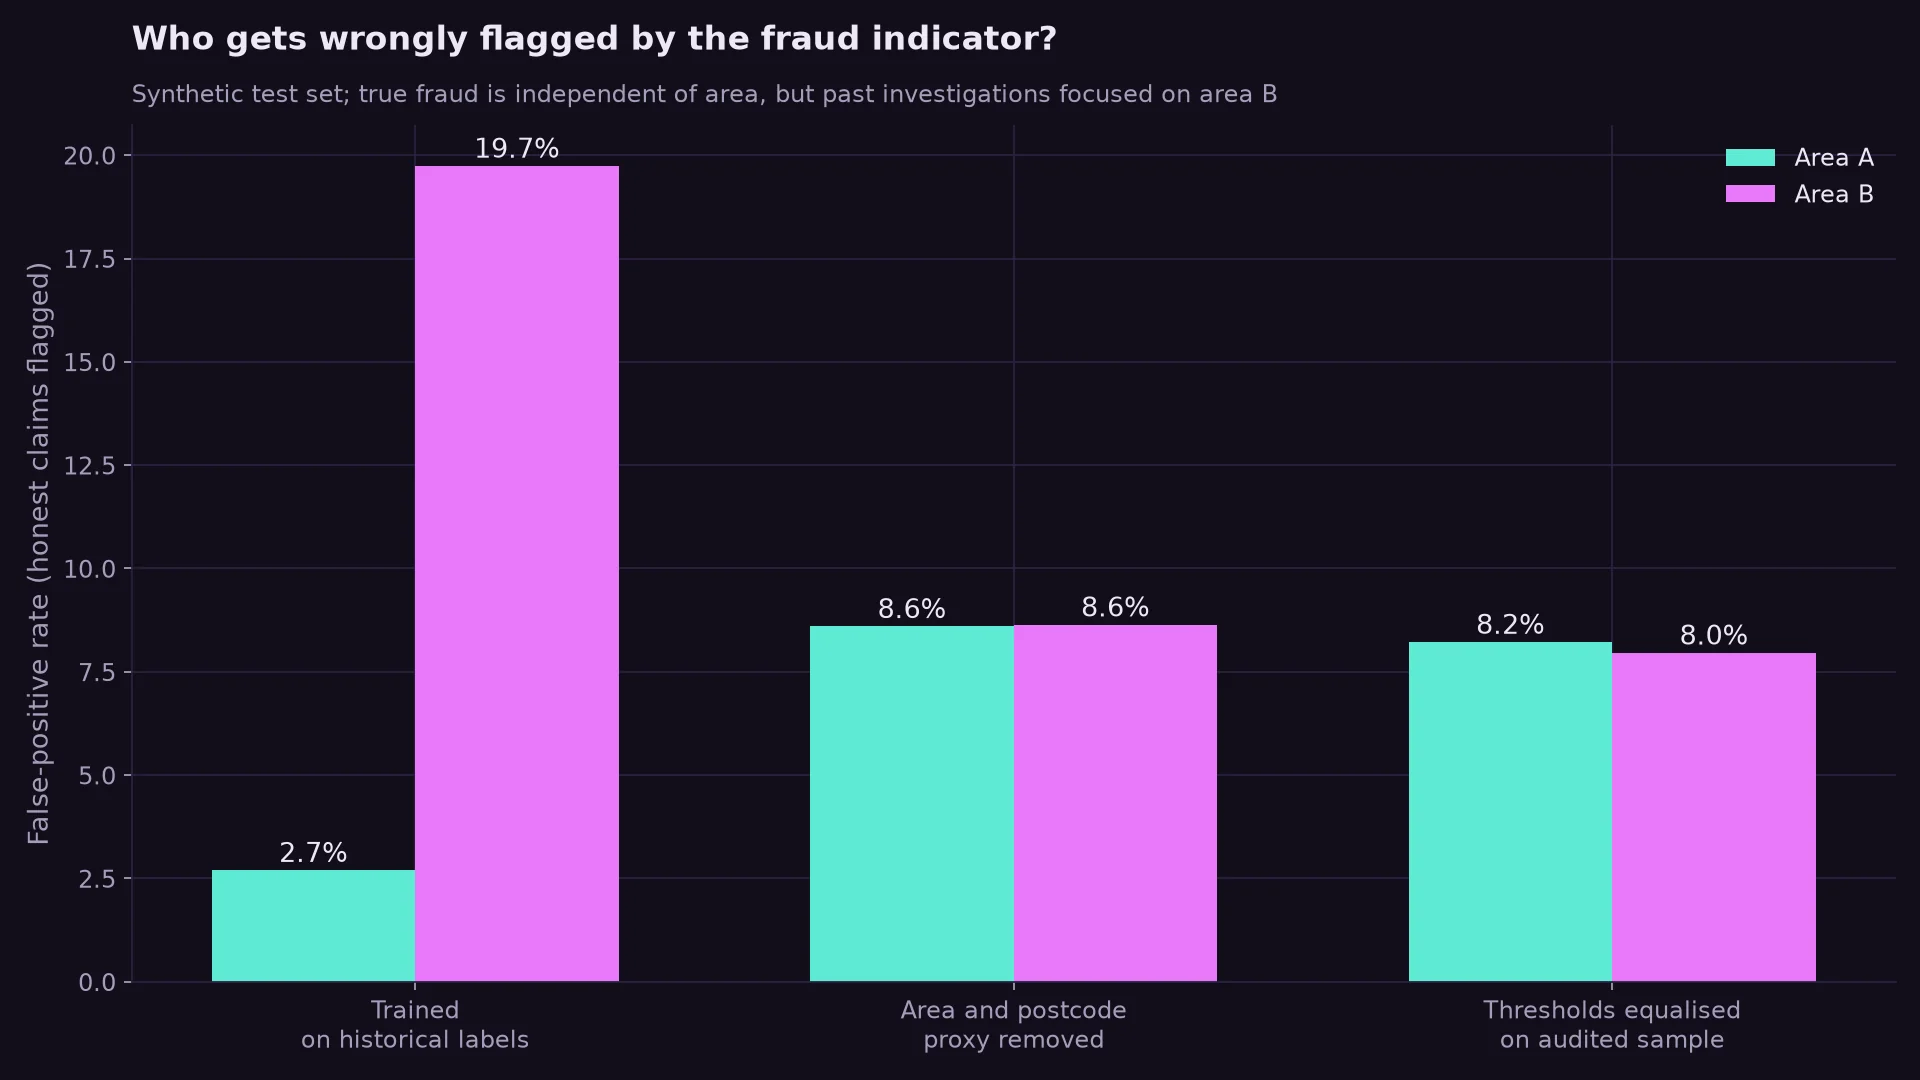
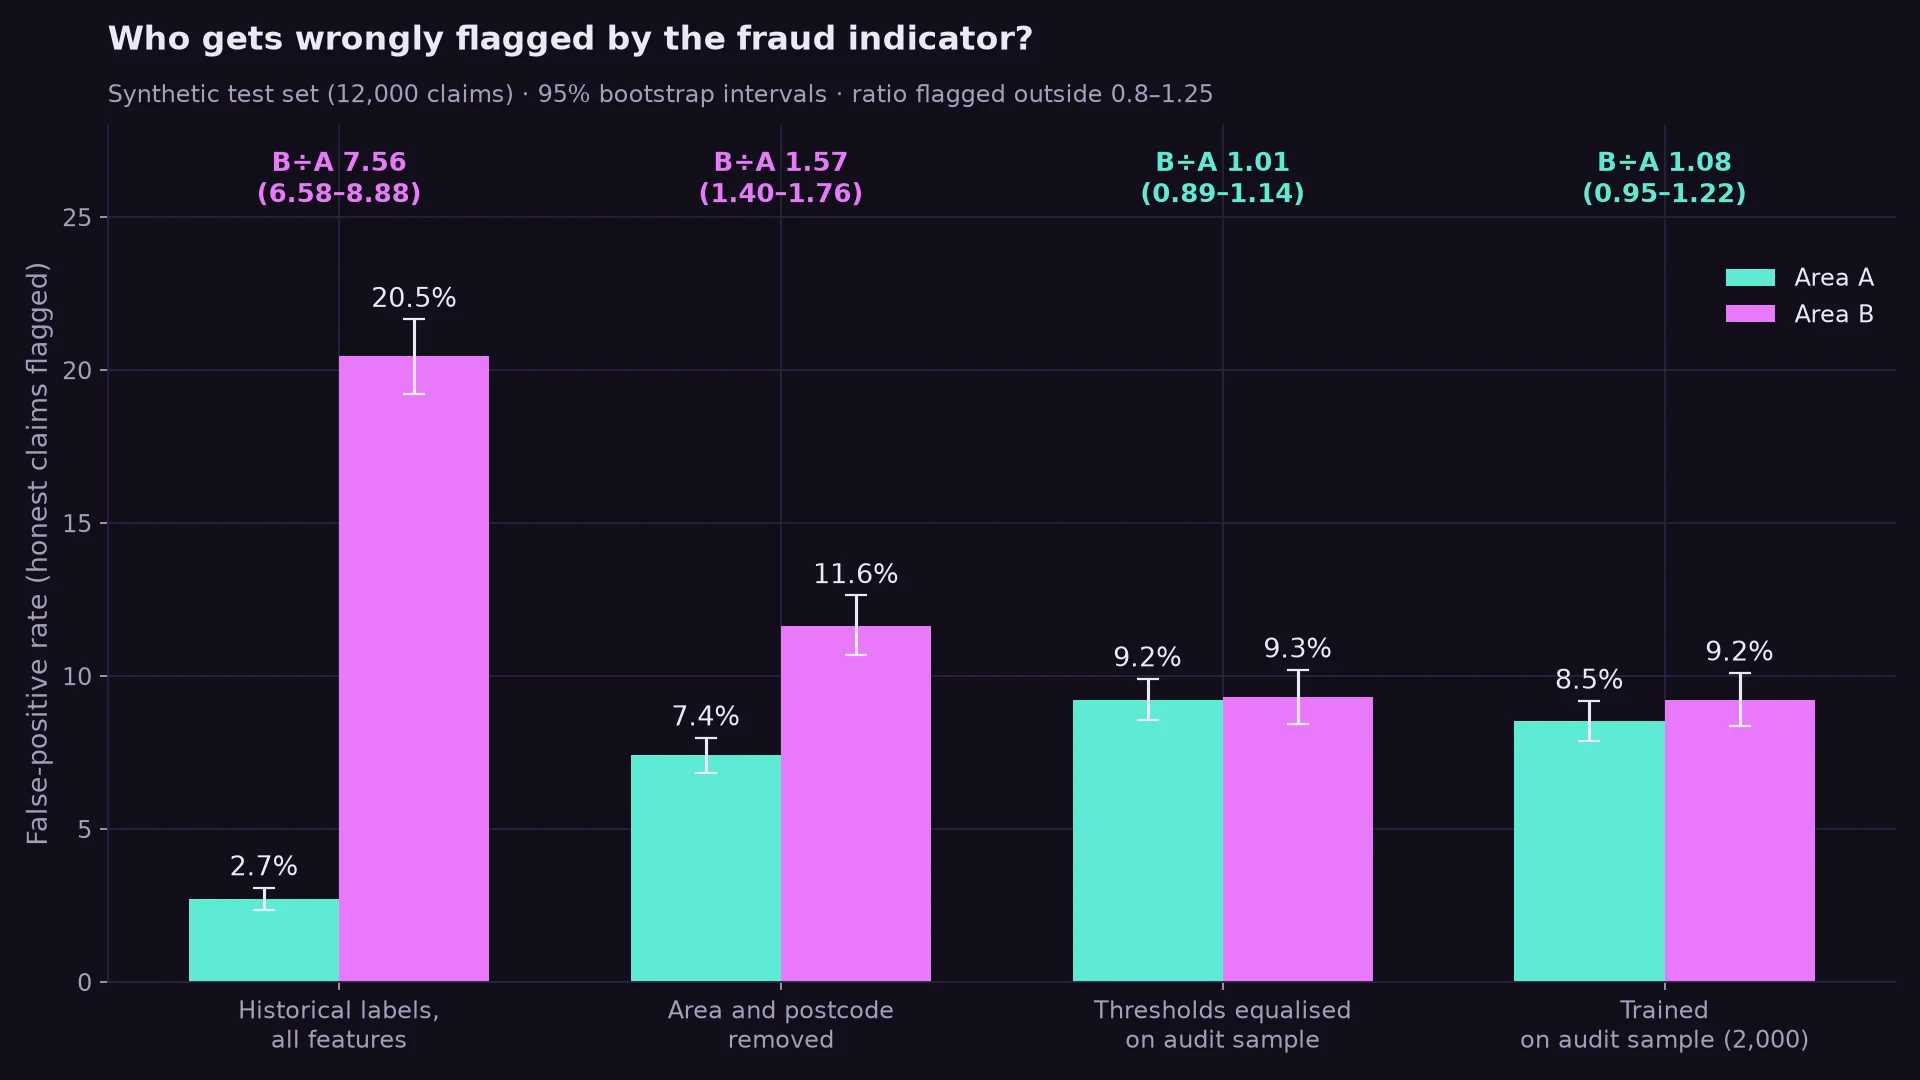
Update Claims Copilot write-up after fixing its eight flaws

diff --git a/src/content/projects/claims-copilot.md b/src/content/projects/claims-copilot.md
@@ -2,116 +2,133 @@
 title: "Claims Copilot: Responsible Generative AI for Motor Insurance"
 date: 2026-06-01
 status: completed
-summary: "A generative-AI copilot for motor insurance claims where a human always decides: a runnable prototype of its safeguards, an eight-stage evaluation, and a Responsible AI assessment of whether it can be trusted."
+summary: "A generative-AI copilot for motor insurance claims where a person always decides: a working prototype of its safeguards, an evaluation built to find where they fail, and a Responsible AI assessment."
 tags: [genai, llm, insurance, responsible-ai, fairness]
-stack: [Python, scikit-learn, NumPy, matplotlib, pytest]
+stack: [Python, Claude API, scikit-learn, NumPy, SciPy, matplotlib, pytest, Hypothesis]
 github: TODO # TODO: create github.com/Chandana18G/motor-claims-copilot (prepared locally), then set this URL
 image: /images/projects/claims-copilot/architecture.webp
-imageAlt: "Diagram of one claim's journey. Intake and an injection guard feed extraction, which feeds hybrid retrieval over the claimant's policy, a rule engine and a separate fraud indicator. These produce a cited draft, which goes to an adjuster who decides; high-value or flagged claims need supervisor sign-off. Every step is written to a hash-chained audit log, and the claimant is told only the human decision."
-highlights: ["AI never decides: enforced in code", "Subgroup audit: 7× FPR gap (synthetic)", "8-stage evaluation, 10 tests"]
+imageAlt: "Diagram of one claim's journey. Intake and an injection guard feed extraction, which feeds hybrid retrieval over the claimant's policy, a rule engine and a separate fraud indicator. These produce a cited draft from an LLM or a template, which is checked and goes to an adjuster with a signed staff token; escalated claims need a different supervisor. A keyed audit log with monitoring and kill switches records every step, and the claimant is told only a sealed human decision."
+highlights: ["AI never decides: 11/11 bypasses refused", "0 of 88 injections reached adjusters", "Hidden proxy bias: 1.6× FPR (synthetic)"]
 featured: false
 ---
 
 ## Problem
 
-M.Sc. group project. Every motor claim requires an adjuster to work through police reports,
-repair estimates, medical documentation and the policy wording, then write a rationale largely
-from scratch. A generative-AI copilot can draft that work, but the people the decision lands on,
-claimants and third parties, never see the AI and can't contest how it shaped their outcome.
+Every motor claim requires an adjuster to work through police reports, repair estimates,
+medical documentation and the policy wording, then write a rationale largely from scratch. A
+generative-AI copilot can draft that work, but the people the decision lands on, claimants and
+third parties, never see the AI and can't contest how it shaped their outcome.
 
-So the project asks two questions: **how do you build a claims copilot where the AI never makes
-the decision**, and **should it be trusted with a real claim, and under what conditions?**
+So this project asks two questions: **how do you build a claims copilot where the AI never makes
+the decision**, and **should it be trusted with a real claim, and under what conditions?** It
+combines a Responsible AI assessment (ethics, EU AI Act, GDPR, risk and governance) with a
+working prototype whose evaluation is designed to find where the safeguards fail.
 
 ## Data
 
-Everything runs on **synthetic data**: three invented motor policies split into citable clauses,
-and generated claims with a claim form, a workshop estimate, and sometimes a police report or
-medical note. The generator controls the ground truth: conflicting documents, injected
-instructions, true fraud, and a **historical bias** where past investigators looked at one area
-(B) more often than another (A). True fraud is independent of area; only who got investigated
-differs. No real claimant or insurer data is used.
+Claims and policies are **synthetic**: three invented motor policies with about 20 citable
+clauses each, and generated claims with a claim form, a workshop estimate, and sometimes a police
+report or medical note. To keep the evaluation honest, the documents are messy on purpose:
+English and German forms, a free-text style held out from development, and OCR noise that
+drops digits. The generator also builds in a **historical bias**: past investigators looked at
+one area more often, and that area's cars are older and cheaper. True fraud is independent of
+area.
+
+Two external inputs keep the tests independent of my own design: pretrained **GloVe** word
+vectors for retrieval and **88 prompt-injection attacks from NVIDIA garak**, an open-source LLM
+vulnerability scanner.
 
 ## Approach
 
 <figure>
-  <img src="/images/projects/claims-copilot/architecture.webp" width="1920" height="1080" loading="lazy" decoding="async" alt="Architecture diagram: intake and guard, extraction, hybrid retrieval, rule engine, separate fraud indicator, cited draft, adjuster decision with supervisor sign-off, and a hash-chained audit log." />
-  <figcaption>One claim's journey: AI components prepare, only people decide.</figcaption>
+  <img src="/images/projects/claims-copilot/architecture.webp" width="1920" height="1080" loading="lazy" decoding="async" alt="Architecture diagram: intake and guard, extraction, hybrid retrieval, rule engine, separate fraud indicator, cited draft with output checks, adjuster decision with signed tokens and four-eyes sign-off, and a keyed audit log with monitoring and kill switches." />
+  <figcaption>One claim's journey: AI components prepare, only signed-in people decide.</figcaption>
 </figure>
 
-- **Prompt-injection guard.** Documents are untrusted input; lines that try to instruct the
-  model are quarantined and logged.
-- **Schema-constrained extraction** into typed, validated fields. Missing documents and facts
-  that disagree across documents are reported, never guessed.
-- **Policy-scoped hybrid retrieval** (BM25 + dense vectors, reciprocal rank fusion) over only the
-  claimant's own policy, so a draft can't cite another product's terms.
-- **Deterministic rule engine** for everything that must be exact: exclusions, excess,
-  settlement cap, late notification and escalation thresholds.
-- **A separate fraud-indicator model** on structured features. It flags for supervisor review;
-  it never decides.
-- **Cited drafts with abstention.** Every sentence cites a clause, every quote is checked
-  verbatim, and the copilot abstains when the evidence conflicts.
-- **The authority boundary in code.** Only a named adjuster can record a decision, overrides
-  need a reason, escalated claims need a supervisor, only a recorded human decision reaches the
-  claimant, and every step goes into a **hash-chained audit log**.
+- **Untrusted documents.** A guard quarantines injected instructions; extraction reads typed,
+  validated fields and reports missing or conflicting facts instead of guessing.
+- **Policy-scoped hybrid retrieval** (BM25 + GloVe, reciprocal rank fusion) over only the
+  claimant's own policy.
+- **A deterministic rule engine** for exclusions, excess, limits and escalation, checked
+  against 14 cases worked out by hand plus property tests.
+- **An LLM drafter (Claude) that can only explain, not decide.** Every generated draft must cite
+  verbatim the exact clauses the rule engine used, keep its recommendation, and contain no
+  invented amounts, other claims or echoed injected text. Otherwise it is replaced by a template.
+- **A human-decision boundary in code:** signed, expiring staff tokens; override reasons;
+  escalated claims signed off by a *different* supervisor; sealed decisions; role-based access
+  to health data; and a keyed audit log anchored outside itself.
+- **Monitoring that measures real review:** hidden canary drafts, unannounced re-review, and
+  fairness checks that pause a component automatically until the governance function resumes it.
 
-Alongside the build, a **Responsible AI assessment** examined the system through five ethical
-lenses (utilitarianism, deontology, virtue ethics, the UDHR and Ubuntu), the EU AI Act and the
-GDPR, and a prioritised risk analysis.
+The assessment examined the system through five ethical lenses (utilitarianism, deontology,
+virtue ethics, the UDHR and Ubuntu), the EU AI Act and the GDPR, and a prioritised risk analysis.
 
 ## Results
 
-An eight-stage evaluation on the synthetic data:
+All on synthetic data:
 
-| # | Stage | Result |
-| --- | --- | --- |
-| 1 | Extraction | 100% of 9,881 fields correct (templated documents, so this tests validation, not messy scans) |
-| 2 | Abstention | All 119 claims with conflicting evidence abstained, none wrongly |
-| 3 | Retrieval | Recall@3: BM25 79%, dense 74%, hybrid 76%; 0 clauses from outside the policy |
-| 4 | Rule engine | 100% agreement on exclusions and payouts across 1,881 claims |
-| 5 | Fraud fairness | False-positive rate 2.7% (area A) vs **19.7% (area B)** on biased labels |
-| 6 | Citations | 100% of deliberately corrupted citations caught |
-| 7 | Prompt injection | 100% of known patterns, but only **33% of unseen phrasings** caught |
-| 8 | Audit log | 100% of edits, deletions, reorderings and insertions detected |
+| Stage | Result |
+| --- | --- |
+| Extraction | 100% correct on clean forms; held-out free-text letters 100% abstained, never misread |
+| Retrieval | Recall@1 49% hybrid vs 36% keywords; 0 clauses from another policy |
+| Rule engine | 14/14 hand-worked cases and all property tests pass |
+| Generated drafts | 7 failure modes of a misbehaving model: 100% rejected |
+| Prompt injection | Pattern guard caught only 11% of garak's attacks, yet **0 of 88** changed what the adjuster sees |
+| Authority boundary | 11/11 bypass attempts refused (forged, expired, revoked tokens, self sign-off…) |
+| Audit log | All tampering detected except an insider rewrite after the last checkpoint |
 
-**Averages hide unfair flagging.** Trained on the biased historical labels, the fraud model
-flags honest claimants from area B **7× more often** than those from area A, yet its overall
-false-positive rate (8.7%) is almost identical to the fair model's (8.6%). Only the subgroup
-breakdown shows it.
+**Averages hide unfair flagging, and the obvious fix is not enough.** Trained on the biased
+investigation records, the fraud model flags honest claimants from one area **7.6×** as often.
+Removing the area and postcode features still leaves **1.57×** (95% CI 1.40–1.76), because
+vehicle age and value act as hidden proxies. Training on a 2,000-claim audited sample closes the
+gap (1.08×) and is also the most accurate model.
 
 <figure>
-  <img src="/images/projects/claims-copilot/fairness_fpr.webp" width="1920" height="1080" loading="lazy" decoding="async" alt="Bar chart of false-positive rates by area. Trained on historical labels: 2.7% in area A, 19.7% in area B. With area and postcode proxies removed: 8.6% and 8.6%. With thresholds equalised on an audited sample: 8.2% and 8.0%." />
-  <figcaption>Who gets wrongly flagged: the gap disappears once the proxies are removed or thresholds are equalised.</figcaption>
+  <img src="/images/projects/claims-copilot/fairness_fpr.webp" width="1920" height="1080" loading="lazy" decoding="async" alt="Bar chart of false-positive rates by area with 95% confidence intervals. All features: 2.7% in area A vs 20.5% in area B, ratio 7.6. Area and postcode removed: ratio 1.57, still flagged. Thresholds equalised on an audit sample: ratio 1.01. Trained on a 2,000-claim audit sample: ratio 1.08." />
+  <figcaption>Who gets wrongly flagged: removing the area feature isn't enough; an audited sample is.</figcaption>
 </figure>
 
 <figure>
-  <img src="/images/projects/claims-copilot/feedback_loop.webp" width="1920" height="1080" loading="lazy" decoding="async" alt="Line chart: as the extra investigation rate in area B grows from 0 to 60 percentage points, the false-positive rate ratio between area B and area A rises from 1.0 to about 9.6 when the model sees area and postcode, and stays at about 1.0 with the proxies removed." />
-  <figcaption>The feedback loop: the more uneven the past scrutiny, the more unequal the model (averaged over 5 seeds).</figcaption>
+  <img src="/images/projects/claims-copilot/feedback_loop.webp" width="1920" height="1080" loading="lazy" decoding="async" alt="Line chart: as extra past investigation in area B rises from 0 to 60 percentage points, the false-positive ratio rises to about 9.9 with all features and about 1.5 with area removed, and stays near 1.0 with behaviour features only." />
+  <figcaption>The feedback loop: uneven past scrutiny becomes tomorrow's training label.</figcaption>
 </figure>
 
-**A low override rate proves nothing.** In a simple model of review, the same 3% override rate
-fits both 0.2% and 6.6% of wrong drafts becoming decisions, depending on how many drafts are
-genuinely reviewed. That's why monitoring has to sample **accepted** recommendations:
-re-reviewing 60 of them gives a 95% chance of catching a problem if 5% are wrong.
+**A low override rate proves nothing; hidden canaries do.** Across 2,000 simulated worlds, the
+override rate had no relationship with how many wrong drafts became decisions (ρ = −0.02); at a
+3% override rate, anywhere from 0.05% to 13% of decisions rested on a wrong draft. Sixty hidden
+canaries estimated how often errors are really caught almost exactly (ρ = 0.97).
 
 <figure>
-  <img src="/images/projects/claims-copilot/automation_bias.webp" width="1920" height="1080" loading="lazy" decoding="async" alt="Two panels. Left: override rate versus wrong drafts that become decisions for four review-diligence levels; at a 3% override rate the outcomes range from about 0.2% to 6.6%. Right: probability that an audit sample of accepted drafts contains an error, by sample size, for error rates of 1% to 10%." />
-  <figcaption>Human-in-the-loop is not human-in-control: the audit log can't tell rubber-stamping from accuracy.</figcaption>
+  <img src="/images/projects/claims-copilot/automation_bias.webp" width="1920" height="1080" loading="lazy" decoding="async" alt="Two scatter plots over 2,000 simulated worlds. Left: override rate against the share of wrong drafts that became decisions shows no relationship, Spearman rho -0.02. Right: canary-based estimate against the true catch rate lies close to the diagonal, rho 0.97." />
+  <figcaption>Human-in-the-loop is not human-in-control, but it can be measured.</figcaption>
 </figure>
 
-Two results didn't go the way I'd hoped, and I report them as measured. **Hybrid retrieval
-didn't beat BM25**, because the offline dense retriever is too weak, and **the injection guard
-missed two-thirds of unseen phrasings**. The recommendation stayed unchanged under every attack
-only because free text never reaches the rule engine.
+**Defence in depth held where the first layer failed.** The pattern guard missed 60 of 88
+external attacks. A worst-case model obeyed every one that reached it, and the output checks
+rejected all 60 drafts.
 
 <figure>
-  <img src="/images/projects/claims-copilot/retrieval.webp" width="1920" height="1080" loading="lazy" decoding="async" alt="Bar chart of retrieval recall on 82 questions. Recall@1 is 61% for BM25, dense and hybrid. Recall@3 is 79% for BM25, 74% for dense and 76% for hybrid. No out-of-scope clauses were returned." />
-  <figcaption>Finding the right clause: BM25 wins here; a proper embedding model is the next step.</figcaption>
+  <img src="/images/projects/claims-copilot/injection.webp" width="1920" height="1080" loading="lazy" decoding="async" alt="Bar chart: 88 garak attacks inserted into claims, 60 missed by the pattern guard, 60 obeyed by the model and rejected by output checks, 0 changed what the adjuster sees." />
+  <figcaption>Prompt injection: architecture, not pattern matching, kept the adjuster's view clean.</figcaption>
 </figure>
+
+<figure>
+  <img src="/images/projects/claims-copilot/extraction.webp" width="1920" height="1080" loading="lazy" decoding="async" alt="Stacked bars of extraction results by document style. Clean English and German forms: 100% correct. With OCR noise: about 95% correct and 5% wrong. Free-text letters: 100% missing, so the copilot abstains." />
+  <figcaption>Reading documents: unknown layouts lead to abstention, not guesses; OCR errors are the weak spot.</figcaption>
+</figure>
+
+<figure>
+  <img src="/images/projects/claims-copilot/retrieval.webp" width="1920" height="1080" loading="lazy" decoding="async" alt="Bar chart of retrieval recall on 173 checks. Recall@1: BM25 36%, LSA 36%, GloVe 42%, hybrid BM25 plus GloVe 49%. Recall@3: BM25 54%, GloVe 66%, hybrid 65%." />
+  <figcaption>Finding the right clause: pretrained GloVe vectors beat keywords; the hybrid ranks the right clause first most often.</figcaption>
+</figure>
+
+**What didn't work:** OCR errors that no second document confirms still reach 2.5% of drafts,
+the guard alone is weak, and an insider with the audit key can rewrite entries after the last
+checkpoint. The live Claude evaluation is ready but needs an API key to run.
 
 **Verdict of the assessment:** a plausible and defensible Responsible AI design, but responsible
 deployment is not yet confirmed until evidence, governance and monitoring requirements are
-demonstrated. The legal, ethical and technical analyses each reach this conditional answer
-independently.
+demonstrated. The prototype shows which evidence is still missing and how to collect it.
 
 <figure>
   <img src="/images/projects/claims-copilot/risk_matrix.webp" width="1920" height="1080" loading="lazy" decoding="async" alt="Qualitative risk matrix of likelihood against impact on claimants. Automation bias, the accountability gap and unfair fraud detection sit in the high tier; explainability, privacy misuse and prompt injection in the middle; hallucinated terms, mitigated by retrieval grounding, lowest." />
@@ -120,14 +137,12 @@ independently.
 
 ## What I learned
 
-- **Human-in-the-loop is not human-in-control.** The architecture can guarantee that an adjuster
-  is present; only evidence from real use can show they're exercising independent judgement.
-- **Citation is not causation.** A rationale can cite a real clause without that clause being
-  why the model recommended what it did, so citation checks are necessary but not sufficient.
-- **Fairness has to be measured per subgroup.** Here, removing two proxy features was enough
-  because the generator had no others. In real data proxies hide in other variables, so parity
-  has to be tested, not assumed.
-- **Governance is a design component.** No existing function owned GenAI-specific risk, so the
-  assessment proposes an AI Governance function, joint sign-off, one monitoring programme and a
-  staged, evidence-gated rollout, with review time protected as a control rather than squeezed
-  for throughput.
+- **Human-in-the-loop is not human-in-control.** The architecture can guarantee that a person is
+  present; only measurement, like hidden canaries, can show they are exercising judgement.
+- **Removing a sensitive feature does not remove its proxies.** Fairness has to be measured per
+  subgroup, with confidence intervals and replication, on outcomes that aren't themselves biased.
+- **Don't trust the first layer.** The injection guard failed on unseen attacks; safety came from
+  letting the model explain decisions but never make them, and checking every output.
+- **Make the evaluation try to break the system.** Testing on held-out formats, external attacks
+  and null controls exposed real weaknesses, and a real bug: an expired staff token was accepted
+  until the authority tests caught it.
